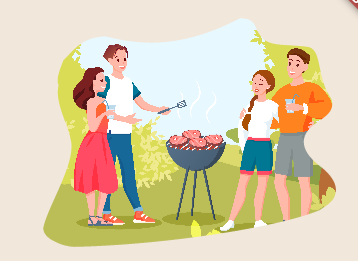
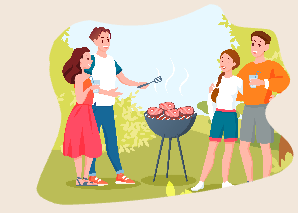
correction welcome page images

diff --git a/lib/module/welcome/index.dart b/lib/module/welcome/index.dart
@@ -33,13 +33,16 @@ class WelcomePageState extends State<WelcomePage>
             const SizedBox(height: 30.0),
             SizedBox(
               width: double.maxFinite,
-              height: 360.0,
+              height: 340.0,
               child: TabBarView(controller: tabController, children: [
                 Column(
                   children: [
                     Padding(
                       padding: const EdgeInsets.all(12.0),
-                      child: Image.asset('assets/house2.png'),
+                      child: ClipPath(
+                        clipper: HouseClipPath(),
+                        child: Image.asset('assets/house2.png'),
+                      ),
                     ),
                     const Text(
                       'Bem vindo à Grafu',
@@ -54,7 +57,10 @@ class WelcomePageState extends State<WelcomePage>
                   children: [
                     Padding(
                       padding: const EdgeInsets.all(12.0),
-                      child: Image.asset('assets/barbecue2.png'),
+                      child: ClipPath(
+                        clipper: BarbecueClipPath(),
+                        child: Image.asset('assets/barbecue2.png'),
+                      ),
                     ),
                     const Text(
                       'Conheça pessoas de qualidade',
@@ -82,7 +88,10 @@ class WelcomePageState extends State<WelcomePage>
                 Column(children: [
                   Padding(
                     padding: const EdgeInsets.all(12.0),
-                    child: Image.asset('assets/pool2.png'),
+                    child: ClipPath(
+                      clipper: BarbecueClipPath(),
+                      child: Image.asset('assets/pool2.png'),
+                    ),
                   ),
                   const Text(
                     'Faça seus próprios eventos',

diff --git a/storybook/main.dart b/storybook/main.dart
@@ -1,5 +1,6 @@
 import 'package:flutter/material.dart';
 import 'package:grafu/module/principal/mock/index.dart';
+import 'package:grafu/module/welcome/index.dart';
 import 'package:storybook_flutter/storybook_flutter.dart';
 
 import 'package:grafu/module/login/mock/index.dart';
@@ -31,6 +32,10 @@ class HomeWidget extends StatelessWidget {
   Widget build(BuildContext context) {
     return Storybook(
       stories: [
+        Story(
+          name: 'Welcome',
+          builder: (context) => const WelcomePage(),
+        ),
         Story(
           name: 'Login',
           builder: (context) => const MockLoginPage(),
